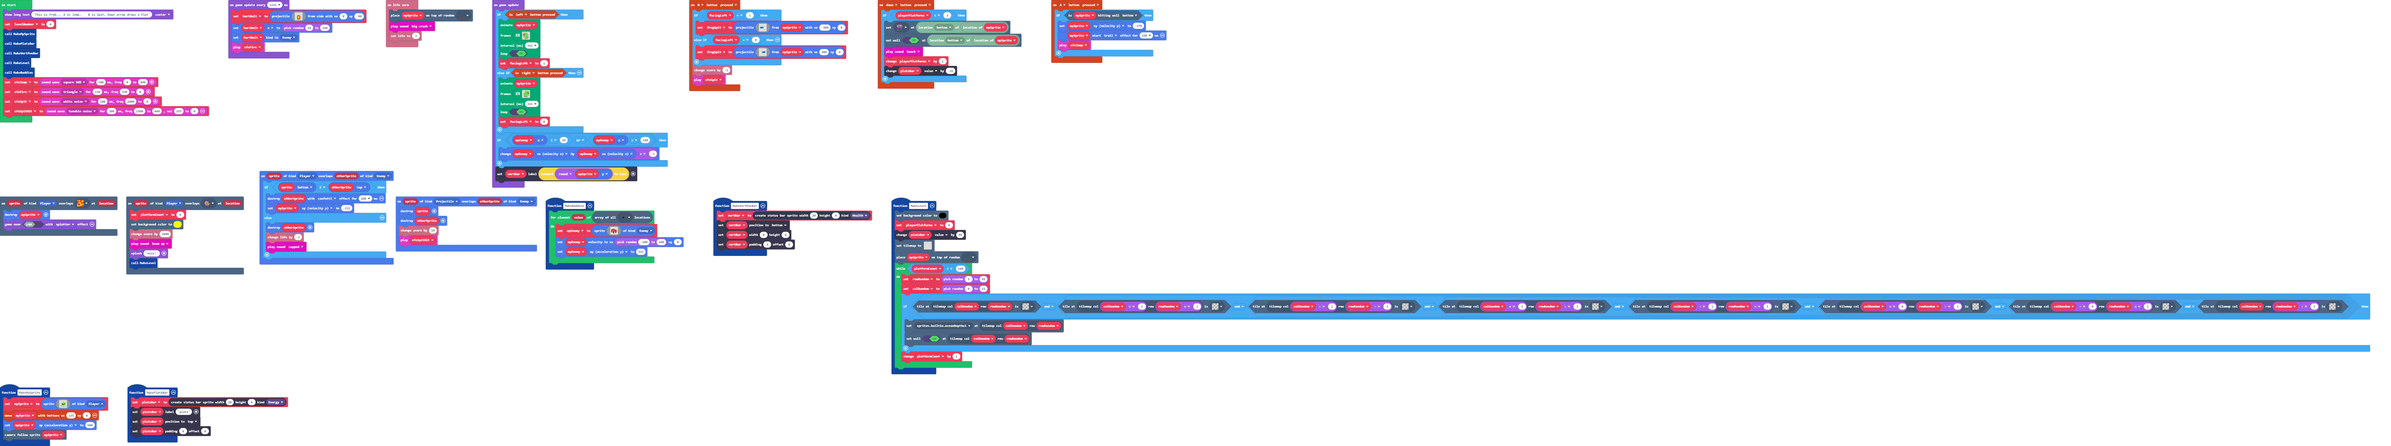
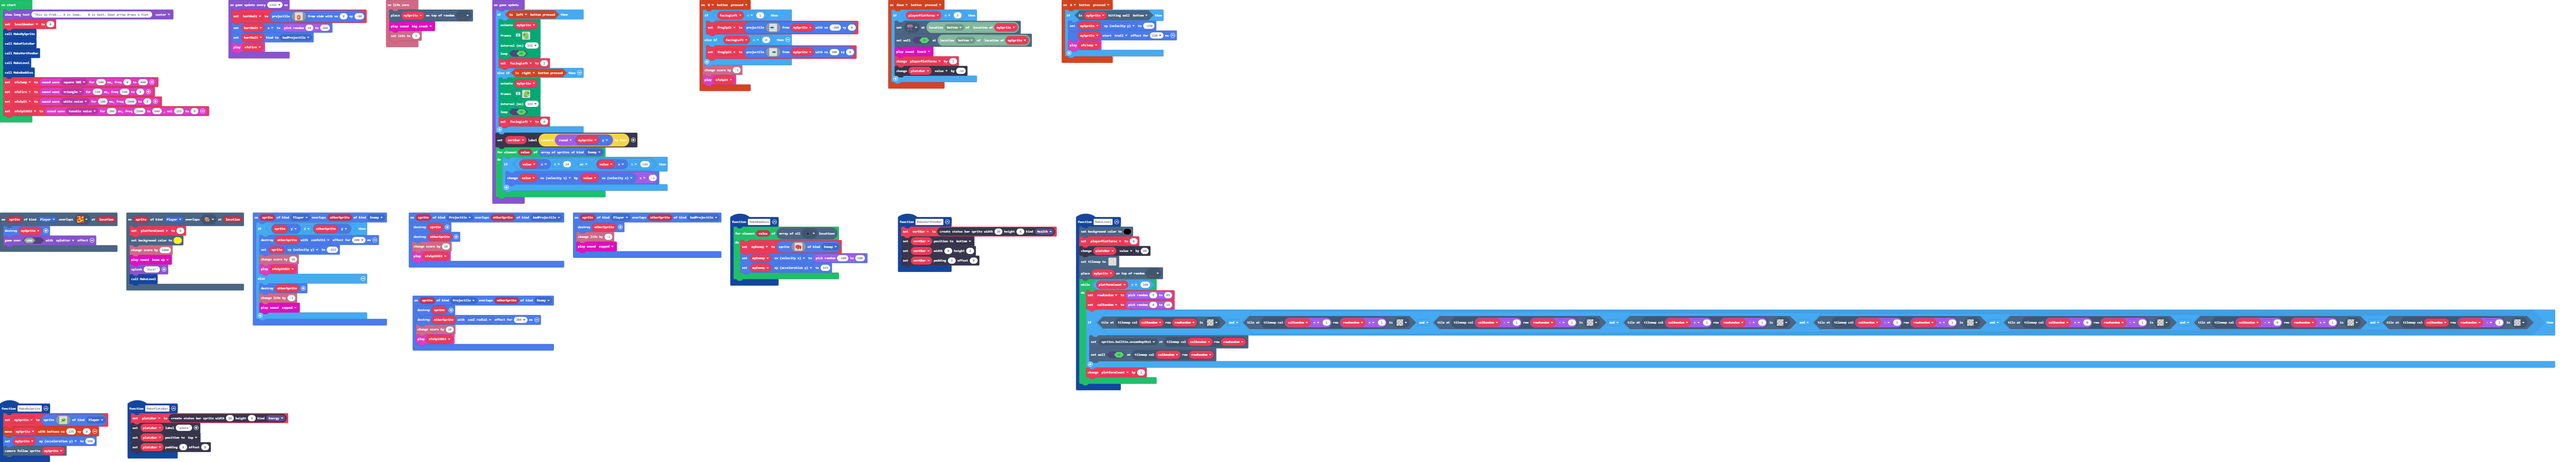
trying to make the bad guys worthwhile

Changed region(s): [[0.0, 0.0, 0.9966, 0.8592], [0.0, 0.8592, 0.1246, 1.0]]

diff --git a/main.ts b/main.ts
@@ -1,3 +1,6 @@
+namespace SpriteKind {
+    export const badProjectile = SpriteKind.create()
+}
 scene.onOverlapTile(SpriteKind.Player, assets.tile`myTile0`, function (sprite, location) {
     platformCount = 0
     scene.setBackgroundColor(5)
@@ -62,12 +65,23 @@ controller.A.onEvent(ControllerButtonEvent.Pressed, function () {
         sfxJump.play()
     }
 })
+sprites.onOverlap(SpriteKind.Projectile, SpriteKind.badProjectile, function (sprite, otherSprite) {
+    sprite.destroy()
+    otherSprite.destroy()
+    info.changeScoreBy(10)
+    sfxSpitHit.play()
+})
 function MakeVertPosBar () {
     vertBar = statusbars.create(20, 4, StatusBarKind.Health)
     vertBar.positionDirection(CollisionDirection.Bottom)
     vertBar.setBarSize(0, 4)
     vertBar.setOffsetPadding(0, 3)
 }
+sprites.onOverlap(SpriteKind.Player, SpriteKind.badProjectile, function (sprite, otherSprite) {
+    otherSprite.destroy()
+    info.changeLifeBy(-1)
+    music.zapped.play()
+})
 scene.onOverlapTile(SpriteKind.Player, sprites.dungeon.hazardLava1, function (sprite, location) {
     mySprite.destroy()
     game.over(false, effects.splatter)
@@ -145,20 +159,22 @@ function MakeBaddies () {
             . . . . . . c c . . . . . . . . 
             . . . . . . . . . . . . . . . . 
             `, SpriteKind.Enemy)
-        myEnemy.setVelocity(randint(-100, 100), 0)
+        myEnemy.vx = randint(-100, 100)
         myEnemy.ay = 333
     }
 }
 sprites.onOverlap(SpriteKind.Projectile, SpriteKind.Enemy, function (sprite, otherSprite) {
     sprite.destroy()
-    otherSprite.destroy()
+    otherSprite.destroy(effects.coolRadial, 200)
     info.changeScoreBy(10)
     sfxSpitHit.play()
 })
 sprites.onOverlap(SpriteKind.Player, SpriteKind.Enemy, function (sprite, otherSprite) {
-    if (sprite.bottom >= otherSprite.top) {
+    if (sprite.y <= otherSprite.y) {
         otherSprite.destroy(effects.confetti, 200)
-        mySprite.vy = -222
+        sprite.vy = -222
+        info.changeScoreBy(10)
+        sfxSpitHit.play()
     } else {
         otherSprite.destroy()
         info.changeLifeBy(-1)
@@ -344,10 +360,12 @@ game.onUpdate(function () {
         )
         facingLeft = 0
     }
-    if (myEnemy.x < 10 || myEnemy.x > 140) {
-        myEnemy.vx += myEnemy.vx * -1
-    }
     vertBar.setLabel(convertToText(Math.round(mySprite.y)))
+    for (let value of sprites.allOfKind(SpriteKind.Enemy)) {
+        if (value.x < 14 || value.x > 136) {
+            value.vx += value.vx * -1
+        }
+    }
 })
 game.onUpdateInterval(1333, function () {
     hurtBolt = sprites.createProjectileFromSide(img`
@@ -369,6 +387,6 @@ game.onUpdateInterval(1333, function () {
         . . . . . c 2 2 2 c . . . . . . 
         `, 0, -80)
     hurtBolt.x = randint(10, 240)
-    hurtBolt.setKind(SpriteKind.Enemy)
+    hurtBolt.setKind(SpriteKind.badProjectile)
     sfxFire.play()
 })
